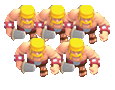
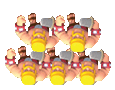
Updated wizard animation, Added Fireball damaging.

diff --git a/app/src/main/java/control/controller/game/BotGameController.java b/app/src/main/java/control/controller/game/BotGameController.java
@@ -11,8 +11,11 @@ import model.GlobalData;
 import model.actors.Attackable;
 import model.actors.cards.Card;
 import model.actors.cards.buildings.InfernoTower;
+import model.actors.cards.spells.FireBall;
+import model.actors.cards.spells.Spell;
 import model.actors.users.Bot;
 import model.utilities.ElixirController;
+import model.utilities.VectorsUtilities;
 import model.utilities.ingame.BotGameModel;
 import view.actors.CardActor;
 import view.actors.TowerActor;
@@ -98,6 +101,24 @@ public class BotGameController extends GameController {
               }
                 c.setDraggable(false);
                 a.setPosition(c.getCenter());
+
+                if (getActorMap().get(c).getClass().equals(FireBall.class)) {
+                  if (getActorMap().get(c).getOwner().equals(GlobalData.BOT)) {
+                    super.getGameModel().getPlayerAttackable().forEach(attackable -> {
+                      if (isInRange((FireBall) getActorMap().get(c), attackable)) {
+                        ((FireBall) getActorMap().get(c)).addTarget(attackable);
+                      }
+                    });
+                  } else {
+                    super.getGameModel().getBotAttackable().forEach(attackable -> {
+                      if (isInRange((FireBall) getActorMap().get(c), attackable)) {
+                        ((FireBall) getActorMap().get(c)).addTarget(attackable);
+                      }
+                    });
+                  }
+                  ((FireBall) getActorMap().get(c)).start();
+                }
+
             } else if (this.castedToIntPosition(c.getCenter()).equals(this.castedToIntPosition(a.getPosition()))) {
               this.updateAttackablePosition(a, enemyAttackables);
               c.setRotation(a.getPosition());
@@ -118,6 +139,10 @@ public class BotGameController extends GameController {
     if (!cardsToAdd.isEmpty()) {
       cardsToAdd.forEach(c -> addPlayerCard(c));
     }
+  }
+
+  private boolean isInRange(final Spell card, final Attackable attackable) {
+    return VectorsUtilities.euclideanDistance(card.getPosition(), attackable.getPosition()) <= card.getRange();
   }
 
   private boolean isNotBuilding(final CardActor c) {

diff --git a/app/src/main/java/model/utilities/ingame/GameModel.java b/app/src/main/java/model/utilities/ingame/GameModel.java
@@ -13,6 +13,7 @@ import model.Model;
 import model.actors.Attackable;
 import model.actors.cards.Card;
 import model.actors.cards.spells.FireBall;
+import model.actors.cards.spells.Spell;
 import model.actors.towers.KingTower;
 import model.actors.towers.QueenTower;
 import model.actors.towers.Tower;
@@ -143,7 +144,9 @@ public abstract class GameModel extends Model {
    */
   public List<Attackable> getPlayerAttackable() {
     /* ricorda di sostituire con playerDeployedCards */
-    return Stream.concat(this.playerCards.stream().map(c -> (Attackable) c), this.playerActiveTowers.stream().map(t -> (Attackable) t)).collect(Collectors.toList());
+    return Stream.concat(this.playerCards.stream()
+        .filter(c -> !c.getClass().equals(FireBall.class))
+        .map(c -> (Attackable) c), this.playerActiveTowers.stream().map(t -> (Attackable) t)).collect(Collectors.toList());
   }
 
   /**

diff --git a/app/src/main/java/model/GlobalData.java b/app/src/main/java/model/GlobalData.java
@@ -38,7 +38,7 @@ public final class GlobalData {
       Wizard.create(USER, new Vector2(100, 100)), 
       Giant.create(USER, new Vector2(200, 100)), 
       Barbarian.create(USER, new Vector2(300, 100)), 
-      Wizard.create(USER, new Vector2(400, 100)), 
+      FireBall.create(USER, new Vector2(400, 100)), 
       Wizard.create(USER, new Vector2(500, 100)),
       Wizard.create(USER, new Vector2(600, 100)));
 

diff --git a/app/src/main/java/model/actors/cards/troops/Wizard.java b/app/src/main/java/model/actors/cards/troops/Wizard.java
@@ -22,7 +22,7 @@ public final class Wizard extends Troop {
    */
   public static final int ELIXIR_COST = 5;
   private static final double HIT_SPEED = 1.4;
-  private static final double RANGE = 80;
+  private static final double RANGE = 8;
 
   private static final String WIZARD_WORD = "wizard";
 
